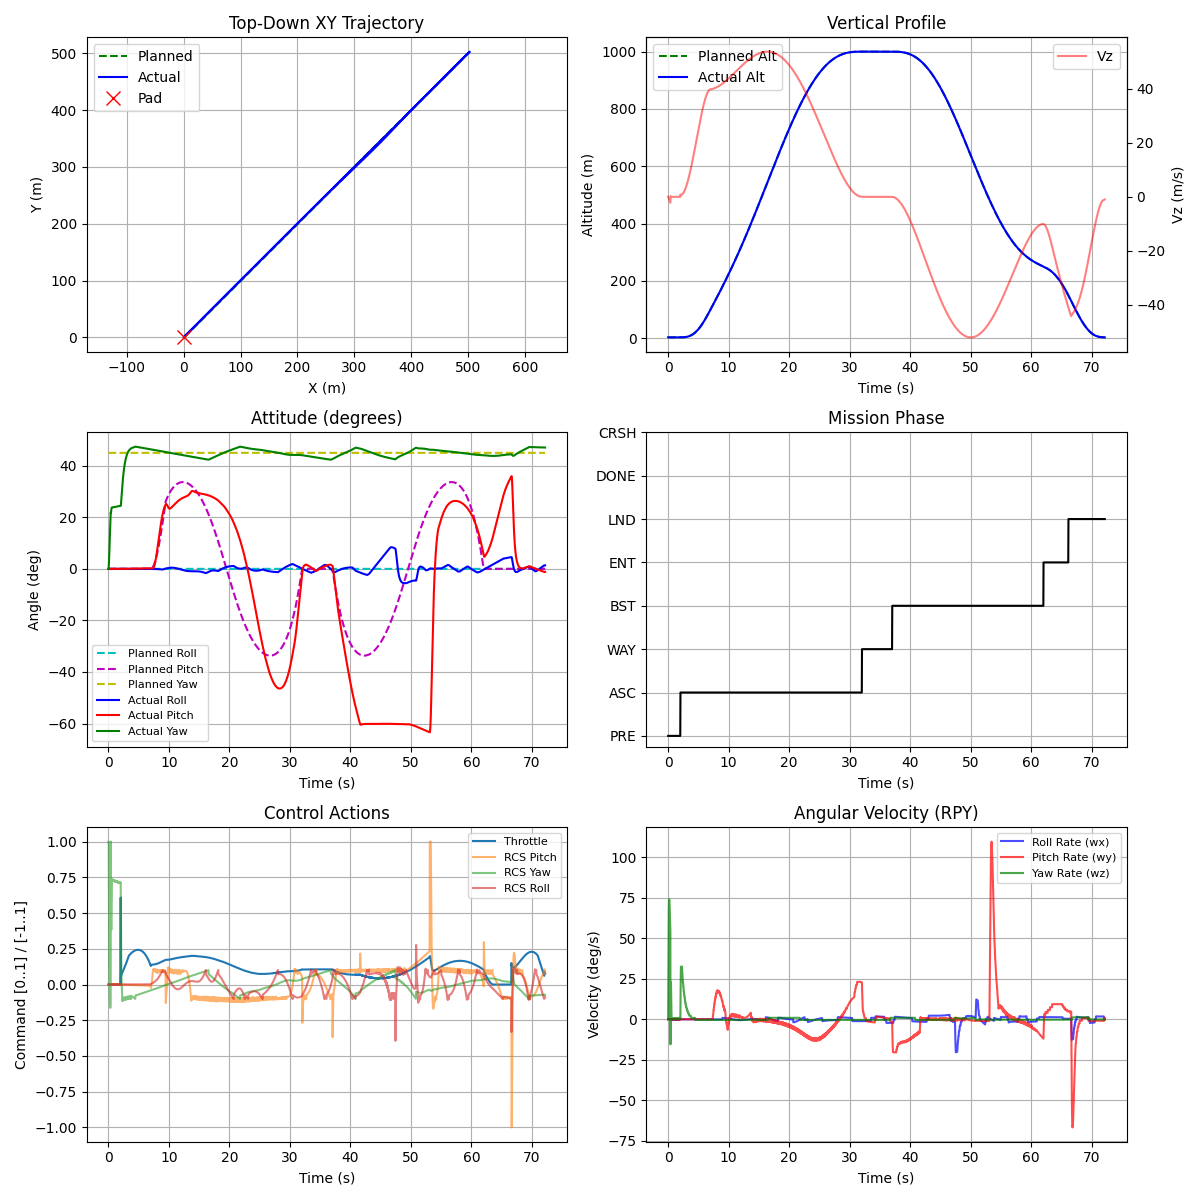
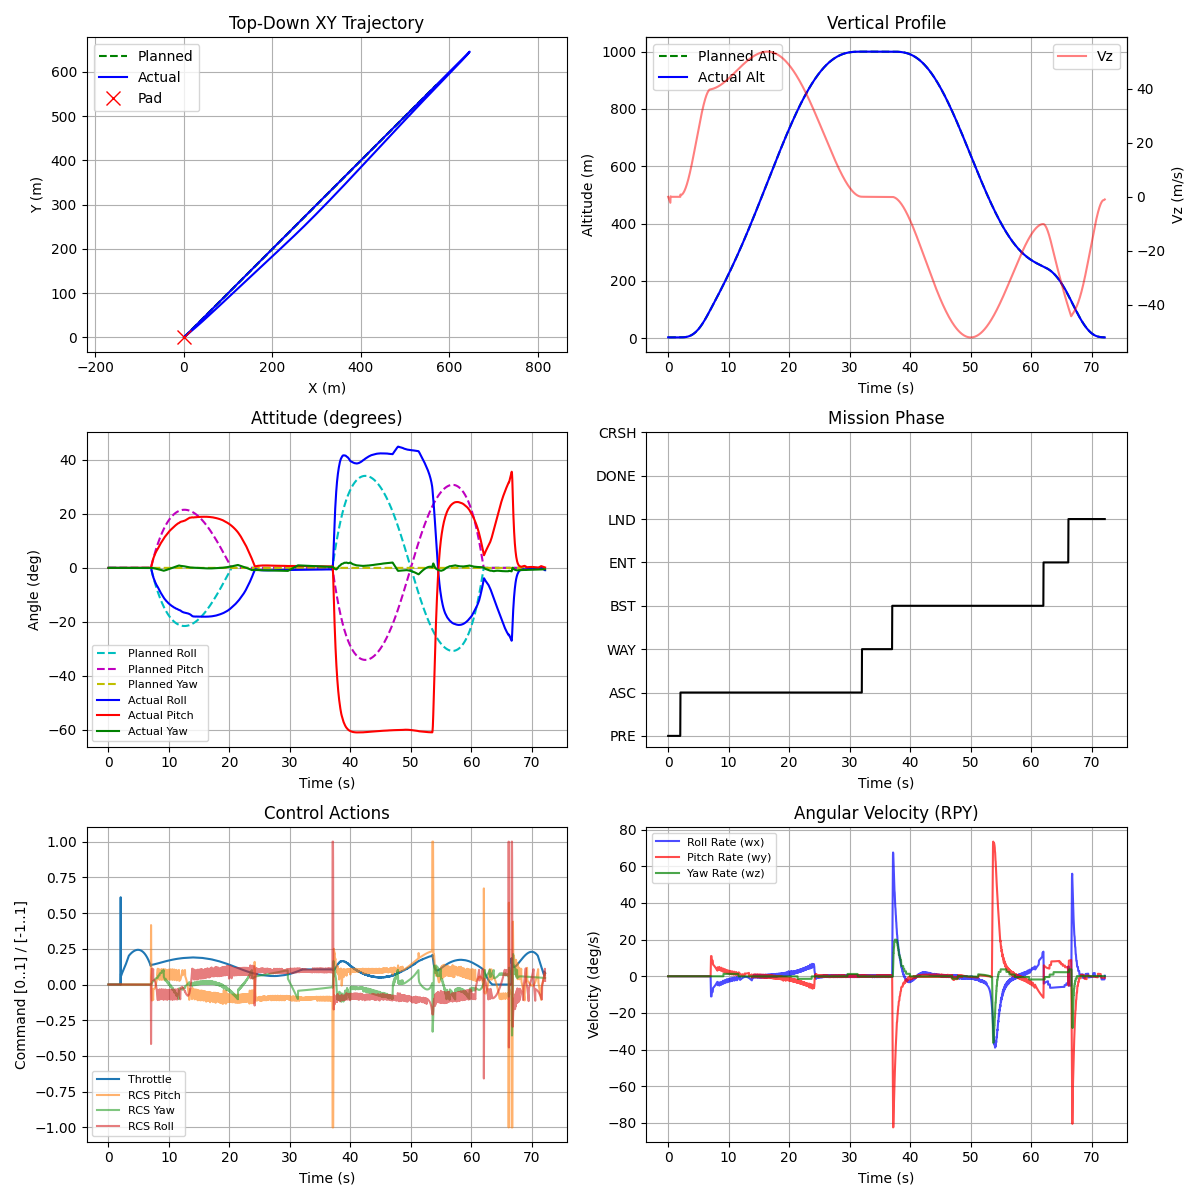
Fix roll tracking wobble and asymmetry: apply hybrid yaw error scaling and implement XYZ Euler inverse kinematics for symmetric horizontal acceleration

diff --git a/rocketlander/run_rocketlander3d.py b/rocketlander/run_rocketlander3d.py
@@ -120,37 +120,34 @@ def main():
                 
             elif phase == MissionPhase.ASCENT:
                 throttle = alt_ctrl.compute(cmd.pos_error[2], cmd.vel_error[2], cmd.desired_acc[2], current_alt=state.pos[2])
-                if state.pos[2] < 100.0:
-                    des_p, des_r, ah_mag = 0.0, 0.0, 0.0
-                elif state.pos[2] < 200.0:
-                    blend = (state.pos[2] - 100.0) / 100.0
-                    des_p, des_r, ah_mag = hor_ctrl.compute(cmd.pos_error, cmd.vel_error, cmd.desired_acc, state.orn_euler[2])
-                    des_p *= blend
-                    des_r *= blend
-                    ah_mag *= blend
-                else:
-                    des_p, des_r, ah_mag = hor_ctrl.compute(cmd.pos_error, cmd.vel_error, cmd.desired_acc, state.orn_euler[2])
+                des_p, des_r, _ = hor_ctrl.compute(cmd.pos_error, cmd.vel_error, cmd.desired_acc, state.orn_euler[2], phase)
+                # Clamp tilt to only go forward towards the waypoint (no backward tilt)
+                des_p = max(0.0, des_p)
+                des_r = min(0.0, des_r)
 
             elif phase == MissionPhase.WAYPOINT_NAV:
                 throttle = alt_ctrl.compute(cmd.pos_error[2], cmd.vel_error[2], cmd.desired_acc[2], current_alt=state.pos[2])
-                des_p, des_r, ah_mag = hor_ctrl.compute(cmd.pos_error, cmd.vel_error, cmd.desired_acc, state.orn_euler[2])
+                des_p, des_r, _ = hor_ctrl.compute(cmd.pos_error, cmd.vel_error, cmd.desired_acc, state.orn_euler[2], phase)
+                # Clamp tilt to only go forward towards the waypoint (no backward tilt)
+                des_p = max(0.0, des_p)
+                des_r = min(0.0, des_r)
 
             elif phase == MissionPhase.BOOSTBACK:
                 throttle = alt_ctrl.compute(cmd.pos_error[2], cmd.vel_error[2], cmd.desired_acc[2], current_alt=state.pos[2])
-                des_p, des_r, ah_mag = hor_ctrl.compute(cmd.pos_error, cmd.vel_error, cmd.desired_acc, state.orn_euler[2])
+                des_p, des_r, _ = hor_ctrl.compute(cmd.pos_error, cmd.vel_error, cmd.desired_acc, state.orn_euler[2], phase)
 
             elif phase in [MissionPhase.ENTRY_BURN, MissionPhase.LANDING_BURN]:
                 throttle = alt_ctrl.compute(cmd.pos_error[2], cmd.vel_error[2], cmd.desired_acc[2], current_alt=state.pos[2])
-                des_p, des_r, ah_mag = hor_ctrl.compute(cmd.pos_error, cmd.vel_error, cmd.desired_acc, state.orn_euler[2])
+                des_p, des_r, _ = hor_ctrl.compute(cmd.pos_error, cmd.vel_error, cmd.desired_acc, state.orn_euler[2], phase)
 
                     
-            # Use raw desired attitude for control. 
-            # (Adding a low-pass filter here previously caused a 0.3s phase delay, destroying outer loop stability and causing the slow pendulum wobble!)
-            u_roll, u_pitch, u_yaw = att_ctrl.compute(
-                des_r - state.orn_euler[0], 
-                des_p - state.orn_euler[1], 
-                cmd.desired_heading - state.orn_euler[2]
-            )
+            # Scale yaw error by cos(pitch) to compensate for the 1/cos(pitch) Euler rate singularity, keeping yaw stable.
+            # Roll and Pitch remain unscaled to preserve perfect symmetry and control authority.
+            roll_err = des_r - state.orn_euler[0]
+            pitch_err = des_p - state.orn_euler[1]
+            yaw_err = (cmd.desired_heading - state.orn_euler[2]) * math.cos(state.orn_euler[1])
+            
+            u_roll, u_pitch, u_yaw = att_ctrl.compute(roll_err, pitch_err, yaw_err)
 
             # Apply tilt compensation to throttle so rocket doesn't lose altitude when tilted
             # Approximating cosine of total tilt
@@ -170,7 +167,7 @@ def main():
             mission_time += dt
 
             # 7. Telemetry
-            # Calculate mathematically pure planned attitude (Feed-Forward only) for smooth plotting
+            # Calculate mathematically pure planned attitude (Feed-Forward only) for symmetric plotting
             pure_ax, pure_ay = cmd.desired_acc[0], cmd.desired_acc[1]
             cy, sy = math.cos(cmd.desired_heading), math.sin(cmd.desired_heading)
             pure_bx = pure_ax * cy + pure_ay * sy
@@ -178,14 +175,10 @@ def main():
             planned_p = math.atan2(pure_bx, 9.81)
             planned_r = math.atan2(-pure_by, 9.81)
             
-            # Apply the identical blend constraint to the 'planned' telemetry so the graph reflects our smooth intent
-            if phase == MissionPhase.ASCENT:
-                if state.pos[2] < 100.0:
-                    planned_p, planned_r = 0.0, 0.0
-                elif state.pos[2] < 200.0:
-                    blend_telemetry = (state.pos[2] - 100.0) / 100.0
-                    planned_p *= blend_telemetry
-                    planned_r *= blend_telemetry
+            # Apply the identical directional constraint to the 'planned' telemetry so the graph reflects our intent
+            if phase in [MissionPhase.ASCENT, MissionPhase.WAYPOINT_NAV]:
+                planned_p = max(0.0, planned_p)
+                planned_r = min(0.0, planned_r)
             
             pad_dist = math.sqrt(state.pos[0]**2 + state.pos[1]**2)
             telemetry.log(mission_time, phase, state.pos, state.vel, state.orn_euler, state.ang_vel, throttle, u_roll, u_pitch, u_yaw, cmd.desired_pos, planned_r, planned_p, cmd.desired_heading)

diff --git a/rocketlander/controllers/horizontal_controller.py b/rocketlander/controllers/horizontal_controller.py
@@ -7,14 +7,15 @@ class HorizontalController:
     def __init__(self, dt):
         pass
         
-    def compute(self, pos_error, vel_error, desired_acc, current_yaw) -> (float, float):
-
-        # kp=0.8, kd=1.8 is CRITICALLY DAMPED (kd = 2*sqrt(kp)). 
-        # This tightly locks onto the trajectory preventing any lazy drift or floating,
-        # ensuring the landing is exactly at [0.0, 0.0].
-        # Extremely overdamped to account for attitude response delays
-        kp = 0.4
-        kd = 2.0
+    def compute(self, pos_error, vel_error, desired_acc, current_yaw, phase=None) -> (float, float):
+        # Dynamically adjust gains for landing burn precision
+        from rocketlander.mission.state_machine import MissionPhase
+        if phase == MissionPhase.LANDING_BURN:
+            kp = 0.8
+            kd = 2.5
+        else:
+            kp = 0.4
+            kd = 2.0
         
         # Add feedforward acceleration to eliminate tracking lag
         ax_world = desired_acc[0] + kp * pos_error[0] + kd * vel_error[0]
@@ -27,20 +28,25 @@ class HorizontalController:
         bx = ax_world * cy + ay_world * sy
         by = -ax_world * sy + ay_world * cy  
         
-        # Physics mapping: a = g * tan(theta) => theta = atan(a/g)
-        # Positive pitch tilts nose forward -> thrust points forward (+X)
-        # In PyBullet, pitch is around Y (forward/back) and roll is around X (left/right).
-        desired_pitch = math.atan2(bx, 9.81)
-        desired_roll = math.atan2(-by, 9.81)
+        # Use inverse kinematics of XYZ Euler sequence to calculate physically correct desired pitch/roll
+        # (This resolves the acceleration asymmetry between X and Y at high tilts where X acceleration
+        # is scaled by cos(roll) but Y is not scaled by cos(pitch))
+        tot_acc = math.sqrt(bx**2 + by**2 + 9.81**2)
+        ux = bx / tot_acc
+        uy = by / tot_acc
+        uz = 9.81 / tot_acc
         
-        # Clamp tilt to prevent tumbling (limit to ~57 degrees to stay safe from 80 deg crash limit)
+        # Clamp to avoid asin domain errors (limit to max ~57 degrees to stay safe from 80 deg crash limit)
+        uy_clamped = max(-0.84, min(0.84, uy))
+        desired_roll = math.asin(-uy_clamped)
+        desired_pitch = math.atan2(ux, uz)
+        
         desired_pitch = max(-1.00, min(1.00, desired_pitch))
         desired_roll = max(-1.00, min(1.00, desired_roll))
         
-        # Required horizontal acceleration magnitude corresponding to the clamped desired tilt
-        # Since a = g * tan(theta), we calculate the actual commanded horizontal acceleration
-        ax_clamped = 9.81 * math.tan(desired_pitch)
-        ay_clamped = 9.81 * math.tan(desired_roll)
+        # Calculate actual clamped acceleration magnitude
+        ax_clamped = 9.81 * math.sin(desired_pitch) * math.cos(desired_roll)
+        ay_clamped = -9.81 * math.sin(desired_roll)
         ah_mag = math.sqrt(ax_clamped**2 + ay_clamped**2)
         
         return desired_pitch, desired_roll, ah_mag

diff --git a/rocketlander/trajectory/planner.py b/rocketlander/trajectory/planner.py
@@ -29,25 +29,25 @@ class TrajectoryPlanner:
         seg1 = Trajectory3D(pos0, vel0, acc0, pos1, vel1, acc1, t1)
         self.segments.append(TrajectorySegment(seg1, t1, "Launch"))
         
-        # Segment 2: Gravity Turn / Ascent Arc - Stop at waypoint!
+        # Segment 2: Gravity Turn / Ascent Arc - Fly through waypoint with non-zero forward velocity!
         pos2 = np.array(self.config.waypoint)
-        vel2 = np.zeros(3)
+        vel2 = np.array([10.0, 10.0, 0.0])
         acc2 = np.zeros(3)
         t2 = 25.0
         
         seg2 = Trajectory3D(pos1, vel1, acc1, pos2, vel2, acc2, t2)
         self.segments.append(TrajectorySegment(seg2, t2, "GravityTurn"))
         
-        # Segment 3: Waypoint Coast (Hover at waypoint)
-        pos3 = pos2
-        vel3 = np.zeros(3)
-        acc3 = np.zeros(3)
+        # Segment 3: Waypoint Coast (Fly through waypoint continuously)
         t3 = 5.0
+        pos3 = pos2 + vel2 * t3
+        vel3 = vel2
+        acc3 = np.zeros(3)
         
         seg3 = Trajectory3D(pos2, vel2, acc2, pos3, vel3, acc3, t3)
         self.segments.append(TrajectorySegment(seg3, t3, "WaypointNav"))
         
-        # Segment 4: Boostback / Entry
+        # Segment 4: Boostback / Entry (Starts from pos3 and heads back to pad)
         pos4 = np.array([self.config.landing_pad[0], self.config.landing_pad[1], 250.0])
         vel4 = np.array([0.0, 0.0, -10.0])
         acc4 = np.zeros(3)

diff --git a/rocketlander/guidance/guidance.py b/rocketlander/guidance/guidance.py
@@ -34,9 +34,7 @@ class GuidanceModule:
         # To prevent Euler angle cross-coupling (which causes lateral deviation in top-down view),
         # we align the rocket's yaw EXACTLY with the straight-line path of the trajectory.
         # Since it's a constant angle per phase, it will NOT oscillate!
-        config = self.planner.config
-        # Keep the heading (Yaw) fixed towards the target for the ENTIRE mission.
-        # To fly backward during boostback, the rocket will naturally pitch backwards 
-        # instead of spinning 180 degrees in yaw!
-        cmd.desired_heading = math.atan2(config.waypoint[1], config.waypoint[0])
+        # Keep the heading (Yaw) fixed at 0.0 to prevent any yaw rotation.
+        # Targeting will be handled purely by roll and pitch.
+        cmd.desired_heading = 0.0
         return cmd

diff --git a/rocketlander/controllers/attitude_controller.py b/rocketlander/controllers/attitude_controller.py
@@ -3,9 +3,9 @@ from rocketlander.controllers.pid import PID
 class AttitudeController:
     """Controls RCS/gimbal from attitude error (roll, pitch, yaw)."""
     def __init__(self, dt):
-        self.roll_pid = PID(kp=2.0, ki=0.0, kd=1.0, dt=dt, limit=1.0)
-        self.pitch_pid = PID(kp=2.0, ki=0.0, kd=1.0, dt=dt, limit=1.0)
-        self.yaw_pid = PID(kp=2.0, ki=0.0, kd=1.0, dt=dt, limit=1.0)
+        self.roll_pid = PID(kp=4.0, ki=0.2, kd=2.5, dt=dt, limit=1.0)
+        self.pitch_pid = PID(kp=4.0, ki=0.2, kd=2.5, dt=dt, limit=1.0)
+        self.yaw_pid = PID(kp=4.0, ki=0.2, kd=2.5, dt=dt, limit=1.0)
 
     def compute(self, roll_err, pitch_err, yaw_err) -> (float, float, float):
         """